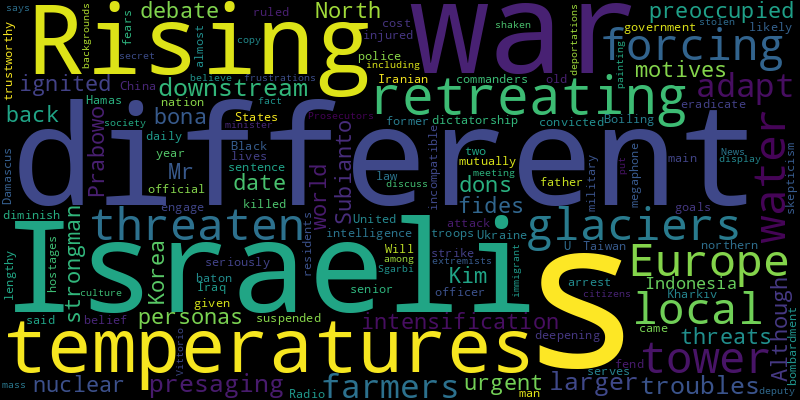
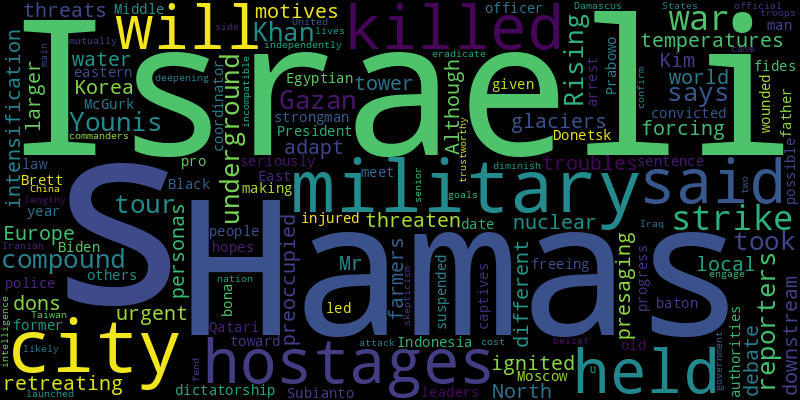
chore(bot): 😱 auto commit

diff --git a/README.md b/README.md
@@ -2,41 +2,41 @@
 Auto RSS New York Times and Generate Word Cloud
 
 ## New York Times Global News
+* The Israeli military took reporters on a tour of an underground compound in the Gazan city of Khan Younis, where it says about 20 hostages were held by Hamas.
 * Rising temperatures and retreating glaciers threaten Europe’s water tower, forcing local farmers to adapt and presaging larger troubles downstream.
 * An intensification of nuclear threats from North Korea while the world is preoccupied with other wars has ignited an urgent debate over Mr. Kim’s motives.
-* Although he dons different personas, the strongman bona fides of Prabowo Subianto date back to when Indonesia was a dictatorship ruled by his former father-in-law.
+* Although he dons different personas, the strongman bona fides of Prabowo Subianto date to when Indonesia was a dictatorship led by his former father-in-law.
 * A police officer who seriously injured a 22-year-old Black man with a baton during an arrest in 2017 was convicted, but given only a suspended sentence.
+* President Biden’s Middle East coordinator, Brett McGurk, will meet with Egyptian and Qatari leaders in hopes of making progress toward freeing captives held by Hamas.
+* The pro-Moscow authorities in the eastern city of Donetsk said 25 people were killed and 20 others were wounded. It was not possible to independently confirm which side launched the strike.
 * A senior Iranian intelligence official was killed in an Israeli strike in Damascus as U.S. troops came under attack in Iraq.
 * Will deepening skepticism about the United States as a trustworthy nation diminish Taiwan’s belief that it could fend off China?
 * Some Israeli commanders said the government’s two main goals were mutually incompatible. To eradicate Hamas, the military would have to engage in a lengthy war that would most likely cost the hostages’ lives.
-* Kharkiv, in northern Ukraine, is under almost daily bombardment. Radio Boiling Over serves as a megaphone for residents’ fears and frustrations.
-* News of a secret meeting among extremists to discuss mass deportations, including of citizens from immigrant backgrounds, has shaken the society.
-* Prosecutors believe a painting the deputy culture minister, Vittorio Sgarbi, put on display in 2021 was in fact stolen in 2013. He says it’s a different copy.
 
 ![Global](./global.png)
 ## New York Times United States News
-* The extreme cold has been particularly rough for regions not used to prolonged periods of ice and wind chills, including Tennessee, Kentucky and Arkansas.
-* The Supreme Court’s ruling intended to remove the consideration of race during the admissions process. So students used their essays to highlight their racial background.
-* The claims involving Fani Willis and Nathan Wade, the special prosecutor she hired to manage the sprawling case in Georgia, have led to new questions about Mr. Wade’s qualifications.
-* The university released its most detailed account of its handling of plagiarism accusations against Claudine Gay, who resigned earlier this month.
-* A Palestinian-American teenager was killed by a barrage of gunfire in the West Bank. A cousin called him “a warrior of God.”
-* On the last weekend before the state’s primary on Tuesday, Nikki Haley made her most forceful case yet in her long-shot bid to defeat Donald Trump for the G.O.P. nomination.
-* Painting himself as inevitable, and seeing who will butter him up the most, Donald Trump has paraded a series of possible running mates, including Tim Scott, Elise Stefanik and J.D. Vance.
+* The number from officials and news reports is likely to rise as authorities assess the fallout from the extreme conditions in many parts of the country.
 * Two of the most cautious states have bypassed the Centers for Disease Control and Prevention by letting students and workers who have the virus but are asymptomatic avoid isolation.
-* From her earliest days in South Carolina politics, Ms. Haley’s public service paid personal financial dividends.
 * Devin Moss spent a year ministering to convicted killer Phillip Hancock. Together, they wrestled with one question: How to face death without God.
+* The university released its most detailed account of its handling of plagiarism accusations against Claudine Gay, who resigned earlier this month.
+* As Nikki Haley celebrated Ron DeSantis’s departure from the Republican primary, Donald J. Trump turned his firepower toward his final rival.
+* The administration’s task force on reproductive rights also announced what officials said were new steps to help Americans get contraceptives and abortions under an emergency care law.
+* Presidential candidates, warning of terrorists, criminals and traffickers, have drawn a national spotlight to the nation’s border with Canada. But proposals for a southern-style wall have not exactly appeared to catch on.
+* The aviation agency issued a safety alert recommending that airlines inspect door plugs on a Boeing 737 plane that has the same design as the 737 Max 9.
+* The couple’s relationship became public after Mr. Scott’s final turn on the debate stage. He proposed on Saturday.
+* “That name is officially retired,” Donald Trump declared after Gov. Ron DeSantis of Florida ended his campaign and endorsed the former president.
 
 ![US](./usnews.png)
 ## New York Times Asia News
+* A look at the academic roots of the idea, which has stirred fierce debate when applied to Israel.
+* At least eight people died, and another 39 were under the rubble, state media reported.
+* Its site is sacred to Hindus, and it also represents the much more recent victory of Hinduism as a political identity.
+* The temple inaugurated by the prime minister is on the disputed site of a centuries-old mosque destroyed in a Hindu mob attack that set a precedent of impunity against Muslims.
+* Plus the meaning of North Korea’s threats.
 * An intensification of nuclear threats from North Korea while the world is preoccupied with other wars has ignited an urgent debate over Mr. Kim’s motives.
-* Although he dons different personas, the strongman bona fides of Prabowo Subianto date back to when Indonesia was a dictatorship ruled by his former father-in-law.
+* Although he dons different personas, the strongman bona fides of Prabowo Subianto date to when Indonesia was a dictatorship led by his former father-in-law.
 * The Royal Botanic Gardens, Kew, hailed pinanga subterranea, a palm native to the island, as a discovery, but it has long been known to local Indigenous people.
 * Will deepening skepticism about the United States as a trustworthy nation diminish Taiwan’s belief that it could fend off China?
 * Kim Kwang-ho, charged with negligence, is one of the most senior officials to face legal consequences for the October 2022 disaster that killed nearly 160 people in Seoul.
-* The private school is for kindergarten and elementary school pupils. Though many details of the disaster remained unclear, it drew widespread attention on China’s internet.
-* The SLIM spacecraft made a successful soft landing on the lunar surface, but a problem with its solar panels means it will soon run out of power.
-* Relatives of victims of the 2002 attack are expected to describe their loss to a U.S. military jury sentencing two Malaysian prisoners.
-* An activist received 50 years in prison for sharing TV and film content on social media that violated the country’s law against defaming its monarchy.
-* Tetsuko Kuroyanagi has been one of Japan’s best-known entertainers for seven decades. At 90, she’s still going strong.
 
 ![Asian](./asian.png)
